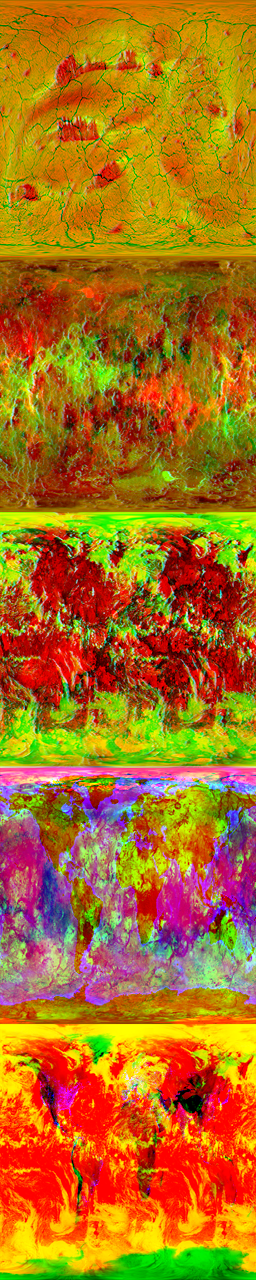
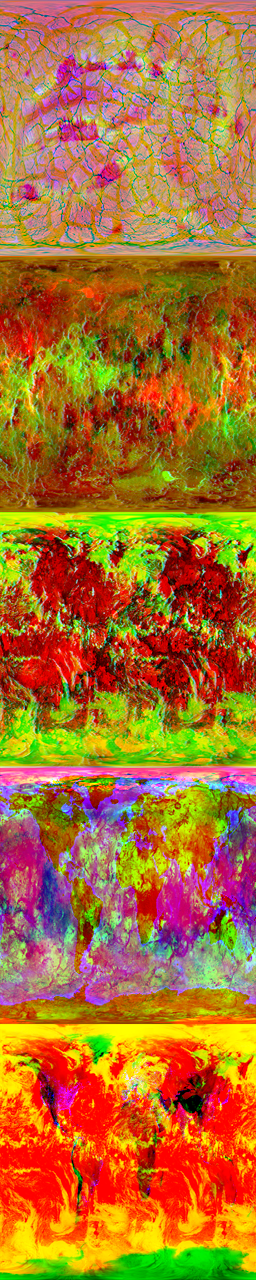
fixed depth sort problem with albums and sun

Changed region(s): [[0.0, 0.0, 1.0, 0.2188]]

diff --git a/src/KeplerApp.cpp b/src/KeplerApp.cpp
@@ -1528,10 +1528,11 @@ void KeplerApp::drawScene()
 		mCamRingAlpha = constrain( abs( transEye.y - artistNode->mPos.y ) * zoomOffset, 0.0f, 1.0f ); // WAS 0.6f
 		
 		
-		NodeArtist* selectedArtist = (NodeArtist*)artistNode;
+
 		
 		/*
 		// STAR CENTER
+		NodeArtist* selectedArtist = (NodeArtist*)artistNode;
 		if( selectedArtist ){
 			gl::enableDepthRead();
 			gl::enableDepthWrite();
@@ -1543,13 +1544,12 @@ void KeplerApp::drawScene()
 		glEnable( GL_CULL_FACE );
 		glEnable( GL_COLOR_MATERIAL );
 		glMaterialfv( GL_FRONT, GL_AMBIENT, ColorA( 0.0f, 0.0f, 0.0f, 1.0f ) );
-		glMaterialfv( GL_FRONT, GL_DIFFUSE, ColorA( 1.0f, 1.0f, 1.0f, 1.0f ) );
-		glMaterialfv( GL_FRONT, GL_SPECULAR, ColorA( 1.0f, 1.0f, 1.0f, 1.0f ) );
+		glMaterialfv( GL_FRONT, GL_DIFFUSE, ColorA( Color::white(), 1.0f ) );
+		glMaterialfv( GL_FRONT, GL_SPECULAR, ColorA( Color::white(), 1.0f ) );
 		glMaterialf(  GL_FRONT, GL_SHININESS, 100.0f );
 		
 		for( int i = 0; i < sortedNodes.size(); i++ ){
 			gl::enableDepthRead();
-			gl::disableAlphaBlending();
 			glEnable( GL_LIGHTING );
 			//glMaterialfv( GL_FRONT, GL_EMISSION, ColorA( 0.0f, 0.0f, 0.15f, 1.0f ) );
 			
@@ -1559,11 +1559,11 @@ void KeplerApp::drawScene()
 			GLfloat artistLight[]	= { lightPos.x, lightPos.y, lightPos.z, 1.0f };
 			glLightfv( GL_LIGHT0, GL_POSITION, artistLight );
 			glLightfv( GL_LIGHT0, GL_DIFFUSE, ColorA( artistNode->mColor, 1.0f ) );
-			glLightfv( GL_LIGHT0, GL_SPECULAR, ColorA( 1.0f, 1.0f, 1.0f, 1.0f ) );
+			glLightfv( GL_LIGHT0, GL_SPECULAR, ColorA( Color::white(), 1.0f ) );
 
 			
-			
-			
+			//gl::disableAlphaBlending();
+			gl::enableAlphaBlending();
 			sortedNodes[i]->drawPlanet( mPlanetsTex );
 			
 			glLightfv( GL_LIGHT0, GL_SPECULAR, ColorA( 0.0f, 0.0f, 0.0f, 0.0f ) );
@@ -1704,37 +1704,37 @@ void KeplerApp::drawScene()
     
     glDisable( GL_TEXTURE_2D );
 	
-	if( G_DEBUG ){
-		// HIT AREA VISUALIZER
-		for (int i = 0; i < mWorld.mNodes.size(); i++) {
-			Node* artistNode = mWorld.mNodes[i];
-			if (artistNode->mIsHighlighted) {
-				gl::color(ColorA(0.0f,0.0f,1.0f,0.25f));
-				if( artistNode->mDistFromCamZAxisPer > 0.0f ){
-					if( G_DRAW_TEXT && artistNode->mIsHighlighted ) gl::drawSolidRect(artistNode->mHitArea);
-					gl::drawSolidRect(artistNode->mSphereHitArea);       
-				}
-				
-				for (int j = 0; j < artistNode->mChildNodes.size(); j++) {					
-					Node* albumNode = artistNode->mChildNodes[j];
-					if (albumNode->mIsHighlighted) {
-						gl::color(ColorA(0.0f,1.0f,0.0f,0.25f));
-						if( G_DRAW_TEXT ) gl::drawSolidRect(albumNode->mHitArea);
-						gl::drawSolidRect(albumNode->mSphereHitArea);
-						
-						for (int k = 0; k < albumNode->mChildNodes.size(); k++) {
-							Node *trackNode = albumNode->mChildNodes[k];
-							if (trackNode->mIsHighlighted) {
-								gl::color(ColorA(1.0f,0.0f,0.0f,0.25f));
-								if( G_DRAW_TEXT ) gl::drawSolidRect(trackNode->mHitArea);
-								gl::drawSolidRect(trackNode->mSphereHitArea);
-							}
-						}            
-					}
-				}
-			}
-		}
-	}
+//	if( G_DEBUG ){
+//		// HIT AREA VISUALIZER
+//		for (int i = 0; i < mWorld.mNodes.size(); i++) {
+//			Node* artistNode = mWorld.mNodes[i];
+//			if (artistNode->mIsHighlighted) {
+//				gl::color(ColorA(0.0f,0.0f,1.0f,0.25f));
+//				if( artistNode->mDistFromCamZAxisPer > 0.0f ){
+//					if( G_DRAW_TEXT && artistNode->mIsHighlighted ) gl::drawSolidRect(artistNode->mHitArea);
+//					gl::drawSolidRect(artistNode->mSphereHitArea);       
+//				}
+//				
+//				for (int j = 0; j < artistNode->mChildNodes.size(); j++) {					
+//					Node* albumNode = artistNode->mChildNodes[j];
+//					if (albumNode->mIsHighlighted) {
+//						gl::color(ColorA(0.0f,1.0f,0.0f,0.25f));
+//						if( G_DRAW_TEXT ) gl::drawSolidRect(albumNode->mHitArea);
+//						gl::drawSolidRect(albumNode->mSphereHitArea);
+//						
+//						for (int k = 0; k < albumNode->mChildNodes.size(); k++) {
+//							Node *trackNode = albumNode->mChildNodes[k];
+//							if (trackNode->mIsHighlighted) {
+//								gl::color(ColorA(1.0f,0.0f,0.0f,0.25f));
+//								if( G_DRAW_TEXT ) gl::drawSolidRect(trackNode->mHitArea);
+//								gl::drawSolidRect(trackNode->mSphereHitArea);
+//							}
+//						}            
+//					}
+//				}
+//			}
+//		}
+//	}
 	
 	
 	
@@ -1751,7 +1751,7 @@ void KeplerApp::drawScene()
     mPlayControls.draw( mInterfaceOrientation, mUiButtonsTex, mCurrentTrackTex, &mAlphaWheel, mFontMediTiny, mUiLayer.getPanelYPos(), mCurrentTrackPlayheadTime, mCurrentTrackLength, mElapsedSecondsSinceTrackChange );
 	
 	gl::disableAlphaBlending();
-	if( G_DEBUG ) drawInfoPanel();
+	//if( G_DEBUG ) drawInfoPanel();
 }
 
 

diff --git a/src/NodeAlbum.cpp b/src/NodeAlbum.cpp
@@ -27,6 +27,8 @@ NodeAlbum::NodeAlbum( Node *parent, int index, const Font &font, const Surface &
 	mPos				= mParentNode->mPos;
 	
 	mIsHighlighted		= true;
+	mIsBlockedBySun		= false;
+	mBlockedBySunPer	= 0.0f;
 	mHasAlbumArt		= false;
 // NOW SET IN setChildOrbitRadii()
 //	mIdealCameraDist	= mRadius * 13.5f;
@@ -169,7 +171,6 @@ void NodeAlbum::update( const Matrix44f &mat )
 	
 /////////////////////////
 // CALCULATE ECLIPSE VARS
-    float eclipseDist = 1.0f;
     if( mParentNode->mDistFromCamZAxisPer > 0.02f && mDistFromCamZAxisPer > 0.02f ) //&& ( mIsSelected || mIsPlaying )
 	{		
 		Vec2f p		= mScreenPos;
@@ -206,8 +207,19 @@ void NodeAlbum::update( const Matrix44f &mat )
 		}
 		
 		mEclipseAngle = atan2( P.y - p.y, P.x - p.x );
+		
+		// if the album is further away from the camera than the sun,
+		// check to see if it is behind the sun.
+		if( mDistFromCamZAxis < mParentNode->mDistFromCamZAxis ){
+			if( c < R * 2.0f && c > R ){
+				mBlockedBySunPer = ( c - R )/R;
+			}
+		} else {
+			mBlockedBySunPer = 1.0f;
+		}
     }
-	mEclipseColor = ( mColor + Color::white() ) * 0.5f * eclipseDist;
+
+	mEclipseColor = ( mColor + Color::white() ) * 0.5f * ( 1.0f - mEclipseStrength * 0.5f );
 // END CALCULATE ECLIPSE VARS
 /////////////////////////////
 	
@@ -249,7 +261,7 @@ void NodeAlbum::drawPlanet( const vector<gl::Texture> &planets )
 			gl::scale( Vec3f( mRadius, mRadius, mRadius ) * mDeathPer );
 			gl::rotate( mMatrix );
 			gl::rotate( mAxialRot );
-			gl::color( mEclipseColor );
+			gl::color( ColorA( mEclipseColor + ( 1.0f - mBlockedBySunPer ), mBlockedBySunPer ) );
 			
 			if( mHasAlbumArt ){
 				mAlbumArtTex.enableAndBind();
@@ -316,7 +328,7 @@ void NodeAlbum::drawClouds( const vector<gl::Texture> &clouds )
 		gl::rotate( mMatrix );
 		gl::rotate( mAxialRot );
 		gl::enableAdditiveBlending();
-		gl::color( ColorA( mColor, alpha ) );
+		gl::color( ColorA( mEclipseColor, alpha ) );
 		glDrawArrays( GL_TRIANGLES, 0, numVerts );
 		gl::popModelView();
 		gl::popModelView();
@@ -339,7 +351,7 @@ void NodeAlbum::drawAtmosphere( const gl::Texture &tex, const gl::Texture &direc
 			gl::enableAdditiveBlending();
 			float alpha = ( 1.0f - dirLength * 0.75f ) + ( mEclipseStrength );
 			
-			gl::color( ColorA( ( mGlowColor + Color::white() ) * 0.5f, alpha * ( 1.0f - mEclipseDirBasedAlpha ) * mDeathPer ) );
+			gl::color( ColorA( ( mGlowColor + Color::white() ) * 0.5f, alpha * ( 1.0f - mEclipseDirBasedAlpha ) * mDeathPer * mBlockedBySunPer ) );
 			
 			Vec2f radius = Vec2f( mRadius * ( 1.0f + stretch ), mRadius ) * 2.46f;
 			//Vec2f radius = Vec2f( mRadius, mRadius ) * 2.46f;
@@ -350,7 +362,7 @@ void NodeAlbum::drawAtmosphere( const gl::Texture &tex, const gl::Texture &direc
 			tex.disable();
 			
 		
-			gl::color( ColorA( mColor, alpha * mEclipseDirBasedAlpha * mDeathPer ) );
+			gl::color( ColorA( mColor, alpha * mEclipseDirBasedAlpha * mDeathPer * mBlockedBySunPer ) );
 			directionalTex.enableAndBind();
 			gl::drawBillboard( mTransPos, radius, -toDegrees( mEclipseAngle ), mBbRight, mBbUp );
 			directionalTex.disable();

diff --git a/src/NodeTrack.cpp b/src/NodeTrack.cpp
@@ -31,7 +31,6 @@ NodeTrack::NodeTrack( Node *parent, int index, const Font &font, const Surface &
     mIsPlaying			= false;
 	mHasClouds			= false;
 	mIsMostPlayed		= false;
-	mIsPopulated		= false;
 	mHasAlbumArt		= false;
 	mHasCreatedAlbumArt = false;
 	
@@ -158,9 +157,9 @@ void NodeTrack::setData( TrackRef track, PlaylistRef album, const Surface &album
 					ColorA surfaceColor	= planetSurface.getPixel( Vec2i( iter.x(), iter.y() ) );
 					float planetVal		= surfaceColor.r;
 					float cloudShadow	= ( 1.0f - surfaceColor.g ) * 0.5f + 0.5f;
-					//float highlight		= surfaceColor.b;
+					float highlight		= surfaceColor.b;
 					
-					ColorA final		= albumColor * 0.75f + planetVal * 0.25f;// + highlight;
+					ColorA final		= albumColor * 0.5f + planetVal * 0.25f + highlight * 0.25f;
 					final *= cloudShadow;
 					
 					iter.r() = final.r * 255.0f;// + 25.0f;
@@ -294,7 +293,6 @@ void NodeTrack::update( const Matrix44f &mat )
 	
 /////////////////////////
 // CALCULATE ECLIPSE VARS
-    float eclipseDist	= 1.0f;
 	if( mParentNode->mParentNode->mDistFromCamZAxisPer > 0.001f && mDistFromCamZAxisPer > 0.001f )
 	{
 		Vec2f p		= mScreenPos;
@@ -330,7 +328,7 @@ void NodeTrack::update( const Matrix44f &mat )
 			
 		mEclipseAngle = atan2( P.y - p.y, P.x - p.x );
 	}
-	mEclipseColor = ( mColor + Color::white() ) * 0.5f * eclipseDist;
+	mEclipseColor = ( mColor + Color::white() ) * 0.5f * ( 1.0f - mEclipseStrength * 0.5f );
 // END CALCULATE ECLIPSE VARS
 /////////////////////////////
 	
@@ -450,7 +448,7 @@ void NodeTrack::drawClouds( const vector<gl::Texture> &clouds )
 			gl::rotate( Vec3f( 0.0f, 0.0f, mAxialTilt ) );
 			gl::rotate( Vec3f( 0.0f, mCurrentTime * mAxialVel, 0.0f ) );
 			float alpha = max( 0.7f - mDistFromCamZAxisPer, 0.0f );
-			gl::color( ColorA( 1.0f, 1.0f, 1.0f, alpha ) );
+			gl::color( ColorA( mEclipseColor, alpha ) );
 			glDrawArrays( GL_TRIANGLES, 0, numVerts );
 			gl::popModelView();
 			gl::popModelView();

diff --git a/include/NodeAlbum.h b/include/NodeAlbum.h
@@ -40,7 +40,8 @@ class NodeAlbum : public Node
 	bool		mHasAlbumArt;
 	bool		mHasRings;
 	bool		mHasClouds;
-	bool		mIsPopulated;
+	bool		mIsBlockedBySun;
+	float		mBlockedBySunPer;
 	ci::gl::Texture mAlbumArtTex;
 	ci::ipod::PlaylistRef mAlbum;
 	float		mCloudLayerRadius;

diff --git a/src/NodeArtist.cpp b/src/NodeArtist.cpp
@@ -68,7 +68,7 @@ void NodeArtist::setData( PlaylistRef playlist )
 	mRadiusDest		= 1.3f + ( 0.66f - mHue ) * 2.0f;
 	mRadius			= 0.0f;
 	
-	mSphere			= Sphere( mPos, mRadiusDest * 0.165f );
+	mSphere			= Sphere( mPos, mRadiusDest * 0.175f );
 }
 
 

diff --git a/include/NodeTrack.h b/include/NodeTrack.h
@@ -57,7 +57,6 @@ private:
 	double		mPercentPlayed;
 	
 	bool		mHasClouds;
-	bool		mIsPopulated;
 	bool		mIsMostPlayed;
 	bool		mHasAlbumArt;
 	bool		mHasCreatedAlbumArt;
